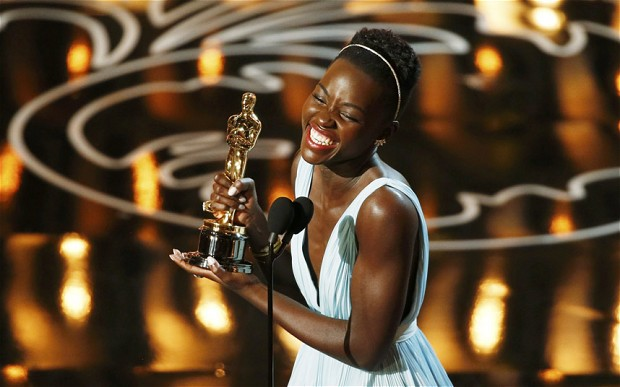
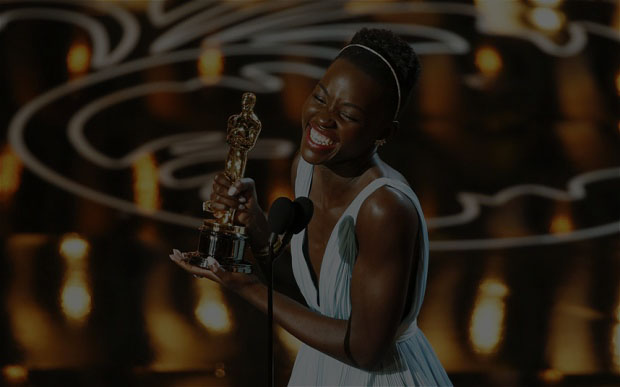
made bg image darker. removed text background

diff --git a/boxoffice.html b/boxoffice.html
@@ -73,9 +73,9 @@
     <header>
         <div class="header-content">
             <div class="header-content-inner">
-                <h1 style="background: rgba(0,0,0,0.7)">Killin' It at the Box Office</h1>
+                <h1 style="">Killin' It at the Box Office</h1>
                 <hr>
-                <h2 style="background: rgba(0,0,0,0.7)">What Factors Drive Movie Revenue?</h2>
+                <h2 style="">What Factors Drive Movie Revenue?</h2>
             </div>
         </div>
     </header>

diff --git a/index.html b/index.html
@@ -73,9 +73,9 @@
     <header>
         <div class="header-content">
             <div class="header-content-inner">
-                <h1 style="background: rgba(0,0,0,0.6)">So you want to win an Oscar?</h1>
+                <h1 style="">So you want to win an Oscar?</h1>
                 <hr>
-                <h2 style="background: rgba(0,0,0,0.6)">The Movie Executive's Handbook</h2>
+                <h2 style="">The Movie Executive's Handbook</h2>
             </div>
         </div>
     </header>

diff --git a/oscar.html b/oscar.html
@@ -73,9 +73,9 @@
     <header>
         <div class="header-content">
             <div class="header-content-inner">
-                <h1 style="background: rgba(0, 0, 0, 0.7)">How to Win an Oscar</h1>
+                <h1 style="">How to Win an Oscar</h1>
                 <hr>
-                <h2 style="background: rgba(0, 0, 0, 0.7)">Predicting Winners from Nominees</h2>
+                <h2 style="">Predicting Winners from Nominees</h2>
             </div>
         </div>
     </header>
